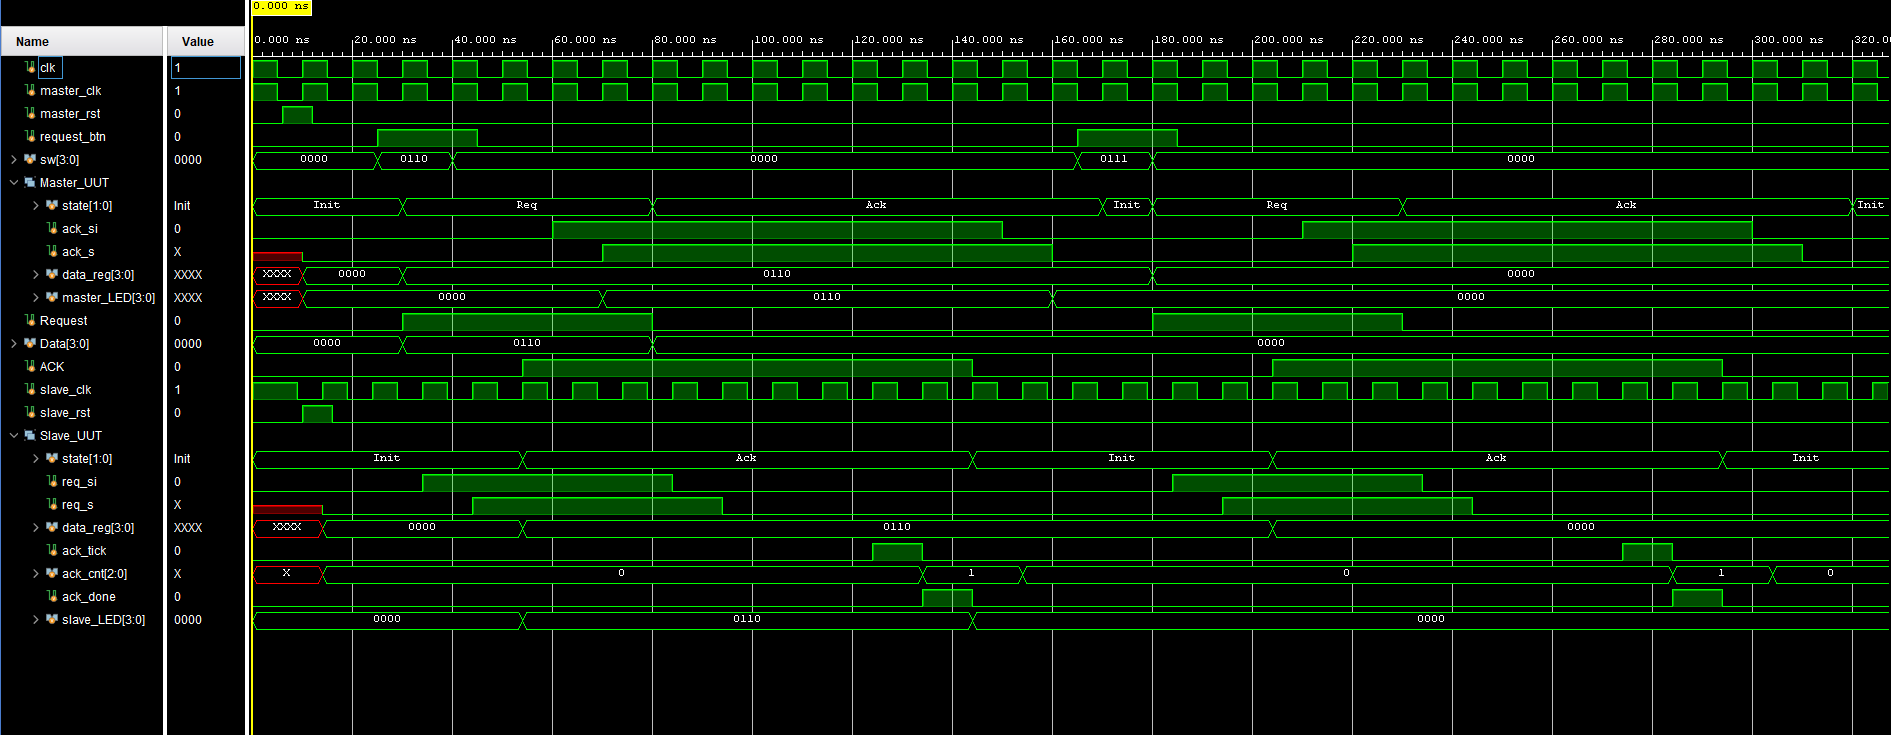
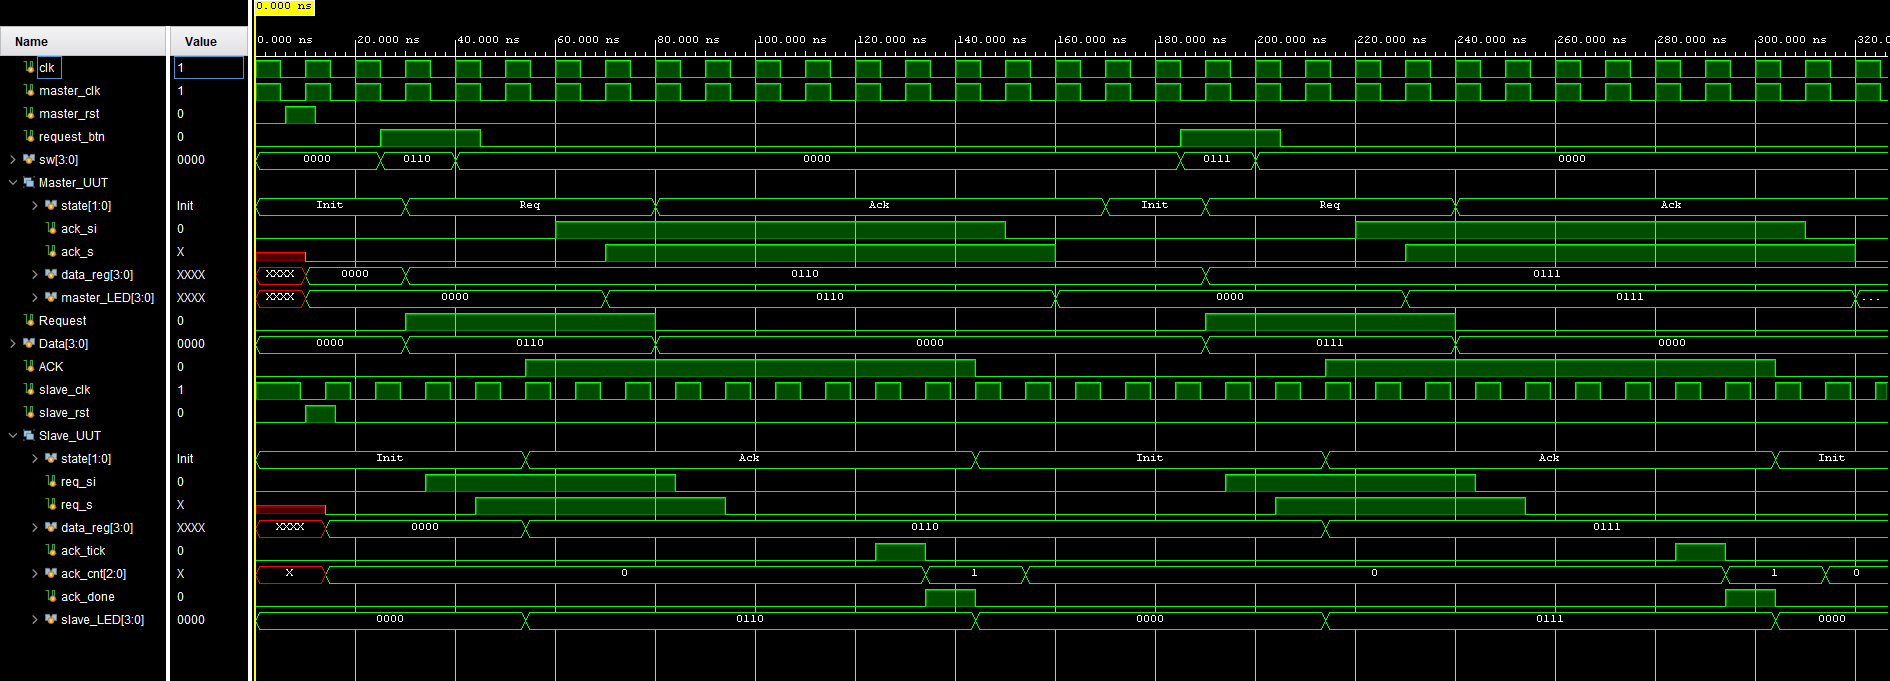
Lab6 Practice: Testbench fixed

diff --git a/README.md b/README.md
@@ -23,6 +23,8 @@
 | --- |
 | <div align="center">Vivado</div> |
 | ![lab6_pra_vvd_2.png](waveforms/lab6_pra/lab6_pra_vvd_2.png) |
+| <div align="center">Vivado (Testbench Fail: request too early)</div> |
+| ![lab6_pra_vvd_2_fail.png](waveforms/lab6_pra/lab6_pra_vvd_2_fail.png) |
 
 ## Midterm 1
 ### Straight from lab
